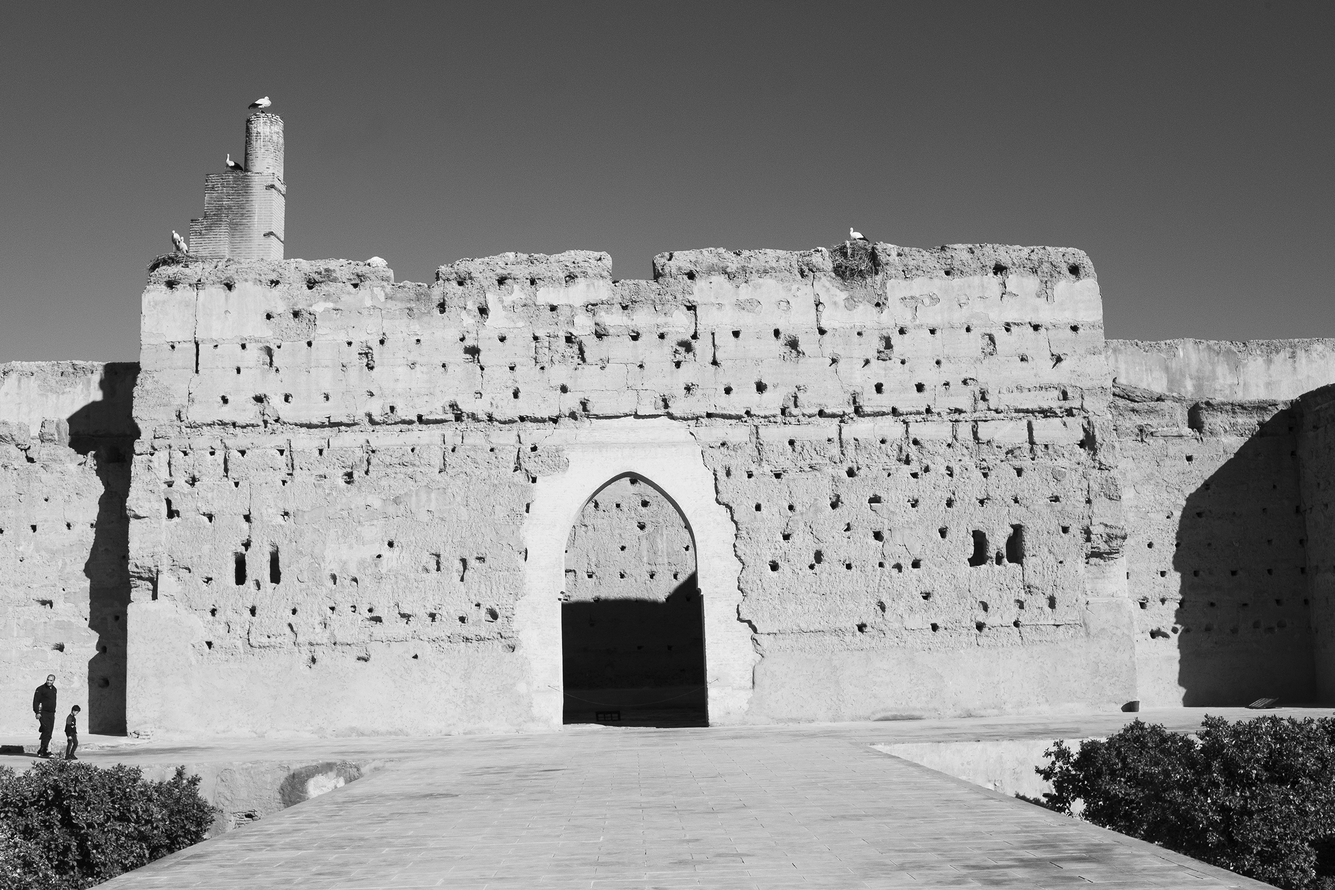
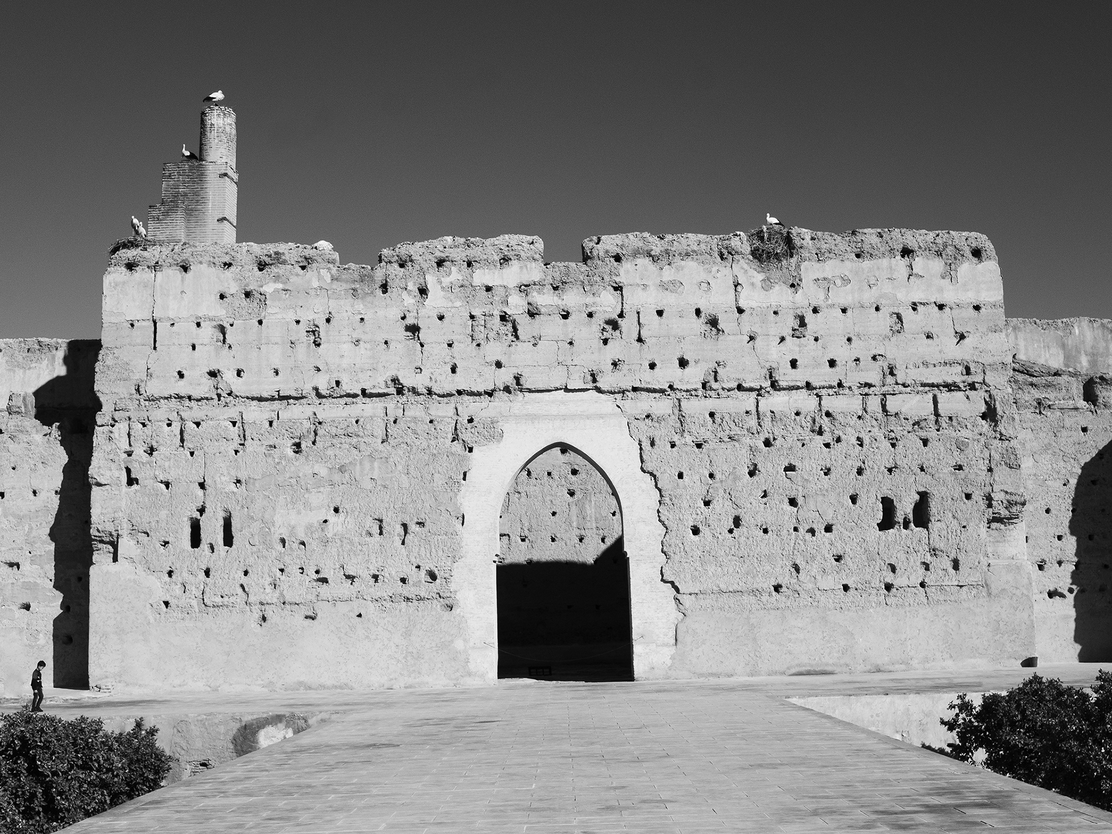
aggiornamento studio4pm

diff --git a/content/studio4pm/css/studio4pm.css b/content/studio4pm/css/studio4pm.css
@@ -29,7 +29,7 @@ body {
 
 .top-left {
   position: fixed;
-  top: 30px;
+  top: 20px;
   left: 30px;
 }
 
@@ -56,7 +56,7 @@ body {
 }
 
 .bottom-left a {
-  text-decoration: none;
+  text-decoration: underline;
   color: #3b2f2a;
 }
 
@@ -91,7 +91,7 @@ body {
   text-transform: uppercase;
   letter-spacing: 0.05em;
   color: #4a3d36;
-  margin: 70px 0 0 0;
+  margin: 80px 0 0 0;
   text-shadow: 1px 1px 3px rgba(0,0,0,0.2);
 }
 

diff --git a/content/about/_index.md b/content/about/_index.md
@@ -6,14 +6,18 @@ Name = "About"
 #
 
 **IT, 1987**  \
-Born in Rome. He is a photographer, assistant curator, and writer. 
-His major focus is the public space and its different spatial typologies, exploring the human presence within the urban environment and how individuals navigate and interact with the surroundings. \
-His practice draws on the languages of documentary photography and his most recents works examine the themes of memory, family archives, and language as a binding force within communities.
+Born in Rome, he is a photographer and visual artist. \
+His practice focuses on public space, collective memory and family archives, exploring how images shape a shared sense of identity within communities. \
+Drawing on the languages of documentary photography, his work embraces participatory methods that actively involve local communities in the creation of images and narratives.
 
-He collaborates with several photographers, artists and Institutions including [Alessandro Imbriaco](http://www.alessandroimbriaco.com/news.html), [Giorgio Di Noto](http://www.giorgiodinoto.com), [ICCD](http://iccd.beniculturali.it) and [Leporello](https://leporello-books.com/) bookshop, gaining valuable experience and expanding his artistic horizons. \
-He worked as studio manager and assistant curator for Magnum Photos photographer [Paolo Pellegrin](https://www.magnumphotos.com/photographer/paolo-pellegrin/) for 3 years.
+He collaborates with several photographers, artists and Institutions including [Alessandro Imbriaco](http://www.alessandroimbriaco.com/news.html), [Giorgio Di Noto](http://www.giorgiodinoto.com), [ICCD](http://iccd.beniculturali.it) and [Leporello](https://leporello-books.com/) and [Studio Bellosguardo](https://www.instagram.com/studiobellosguardo/), gaining valuable experience and expanding his artistic horizons. \
+From 2021 to 2023, he worked as studio manager and assistant curator for Magnum Photos photographer [Paolo Pellegrin](https://www.magnumphotos.com/photographer/paolo-pellegrin/), contributing to editorial, exhibition and research projects.
 
-He is currently living and working in Rome (IT) as a freelance photographer. 
+His photographs were featured on serveral newspapers and magazines, including Repubblica, Internazionale, \
+Il Manifesto, Arxipelag Magazine and others. 
+
+He is currently living and working in Rome (IT) as a freelance photographer, and he is the founder of [Studio 4PM](http://www.alessandrovitali.it/studio4pm).
+
 
 
 

diff --git a/content/Architecture/_index.md b/content/Architecture/_index.md
@@ -4,4 +4,6 @@ Description = "Architecture"
 Name = "Architecture"
 +++
 
-A selection of architecture, objects and commissions, from 2018
+A selection of architecture, objects and commissions, from 2018, for
+[Studio 4PM](http://www.alessandrovitali.it/studio4pm)
+
